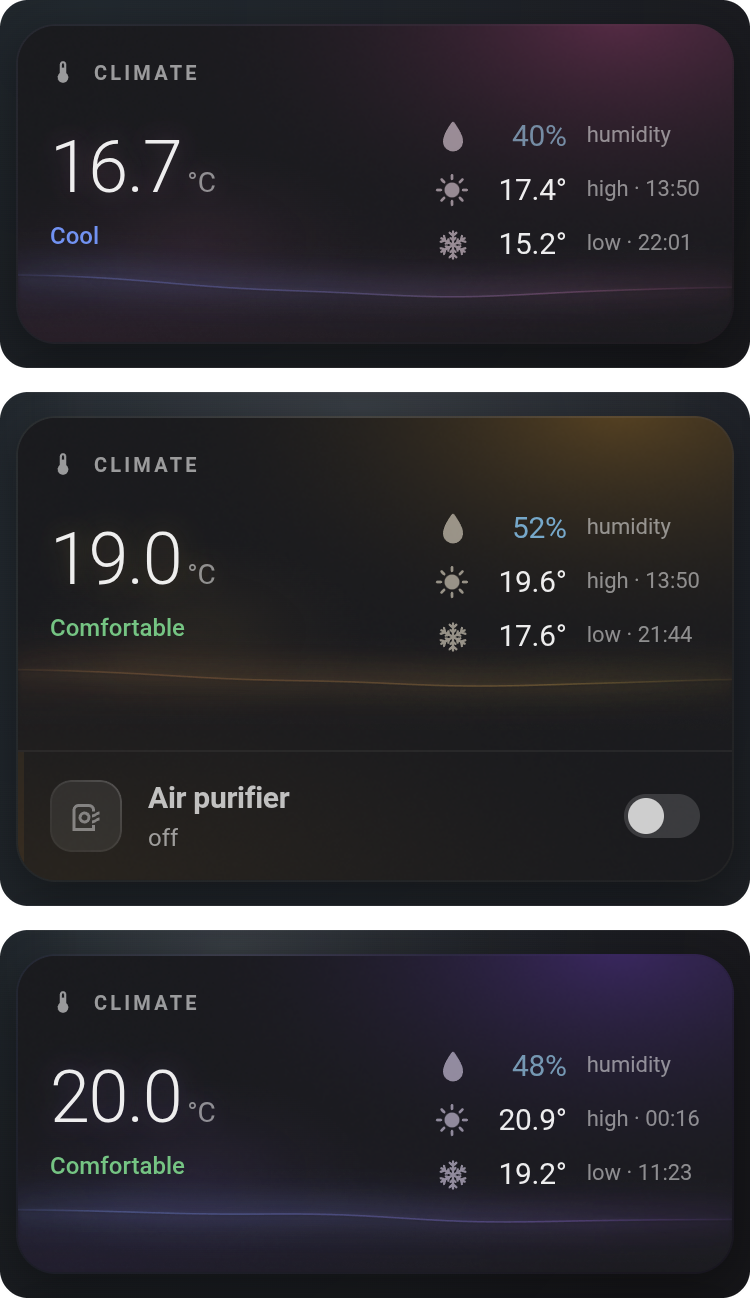
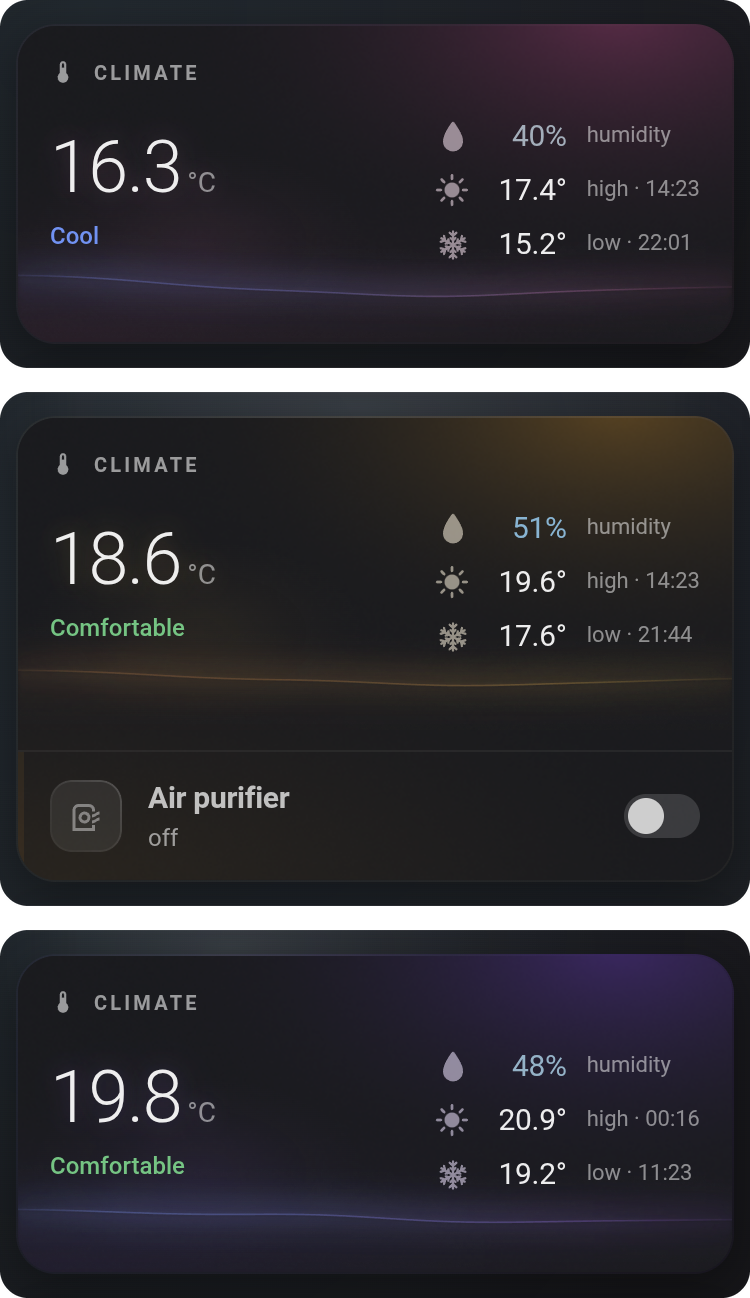
Update humidity captured images.

diff --git a/dist/lamplight.js b/dist/lamplight.js
@@ -1,4 +1,4 @@
-/* Lamplight Cards 0.155.0-dev
+/* Lamplight Cards 0.156.0-dev
    Built from src/. Do not edit this file; edit src/ and run build.sh. */
 (function () {
 'use strict';
@@ -496,7 +496,9 @@ const LAMP_MEANINGS = {
   // Which way the air feels on #today: periwinkle colder, warm amber warmer (29 Oct 2026).
   felt: { colder: '172,166,250', warmer: '240,180,120' },
   // The humidity ramp: dry, middle, wet. Three [r, g, b] stops, not one colour.
-  humidity: { ramp: [[107, 143, 166], [82, 191, 230], [69, 209, 250]] },
+  // The dry stop is silver, OKLCH L 0.75 C 0.025 h 240: the lightness of the middle stop, with
+  // almost no colour. Until 0.156.0-dev it was 107,143,166 (L 0.63), too faint under 50%.
+  humidity: { ramp: [[160, 176, 188], [82, 191, 230], [69, 209, 250]] },
   // WEATHER STATUS (§11). The CAP severity scale, not a provider's words. lampWeatherStatus()
   // turns the provider's level into a status. The screen keeps the provider's own words.
   // Two sets, by the household's decision of 22 Nov 2026:
@@ -18621,5 +18623,5 @@ function lampApplyTheme(el, config) {
   Card.prototype._lampThemeHook = true;
 });
 
-console.info('%c LAMPLIGHT %c 0.155.0-dev ', 'background:#231a12;color:#ffb35c;border-radius:3px 0 0 3px', 'background:#ffb35c;color:#231a12;border-radius:0 3px 3px 0');
+console.info('%c LAMPLIGHT %c 0.156.0-dev ', 'background:#231a12;color:#ffb35c;border-radius:3px 0 0 3px', 'background:#ffb35c;color:#231a12;border-radius:0 3px 3px 0');
 })();

diff --git a/src/02-palette.js b/src/02-palette.js
@@ -101,7 +101,9 @@ const LAMP_MEANINGS = {
   // Which way the air feels on #today: periwinkle colder, warm amber warmer (29 Oct 2026).
   felt: { colder: '172,166,250', warmer: '240,180,120' },
   // The humidity ramp: dry, middle, wet. Three [r, g, b] stops, not one colour.
-  humidity: { ramp: [[107, 143, 166], [82, 191, 230], [69, 209, 250]] },
+  // The dry stop is silver, OKLCH L 0.75 C 0.025 h 240: the lightness of the middle stop, with
+  // almost no colour. Until 0.156.0-dev it was 107,143,166 (L 0.63), too faint under 50%.
+  humidity: { ramp: [[160, 176, 188], [82, 191, 230], [69, 209, 250]] },
   // WEATHER STATUS (§11). The CAP severity scale, not a provider's words. lampWeatherStatus()
   // turns the provider's level into a status. The screen keeps the provider's own words.
   // Two sets, by the household's decision of 22 Nov 2026:
